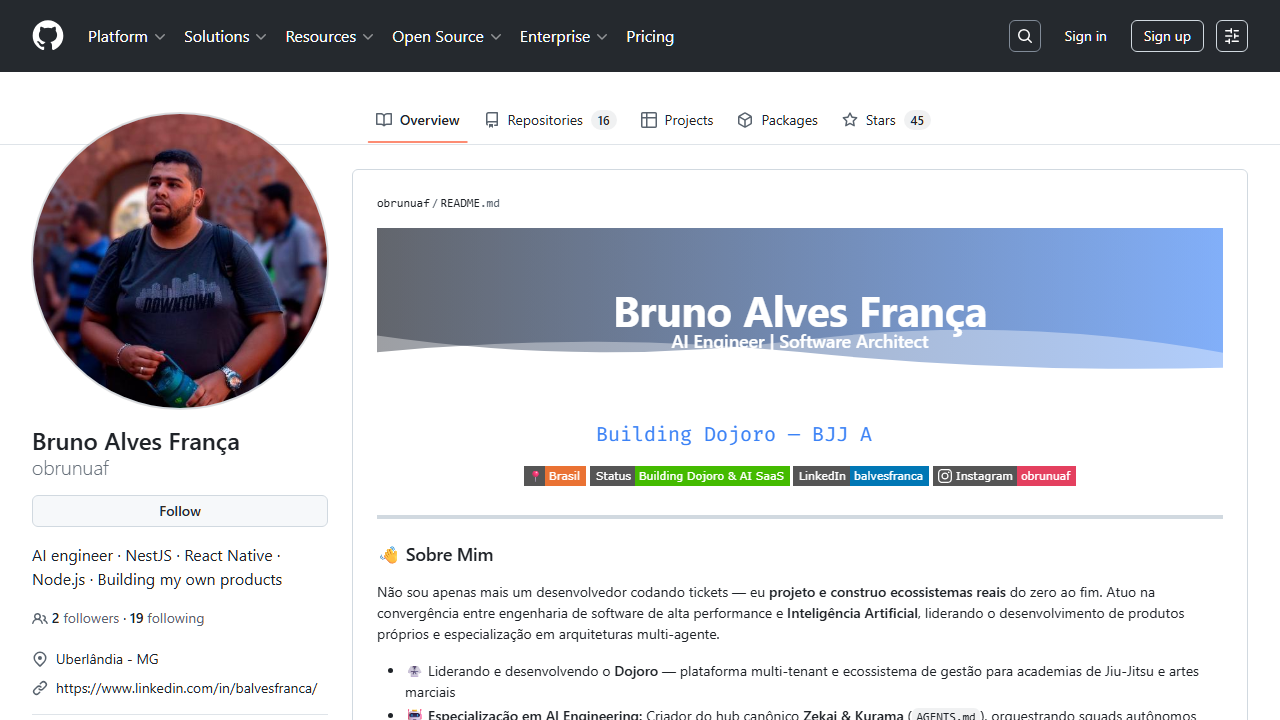
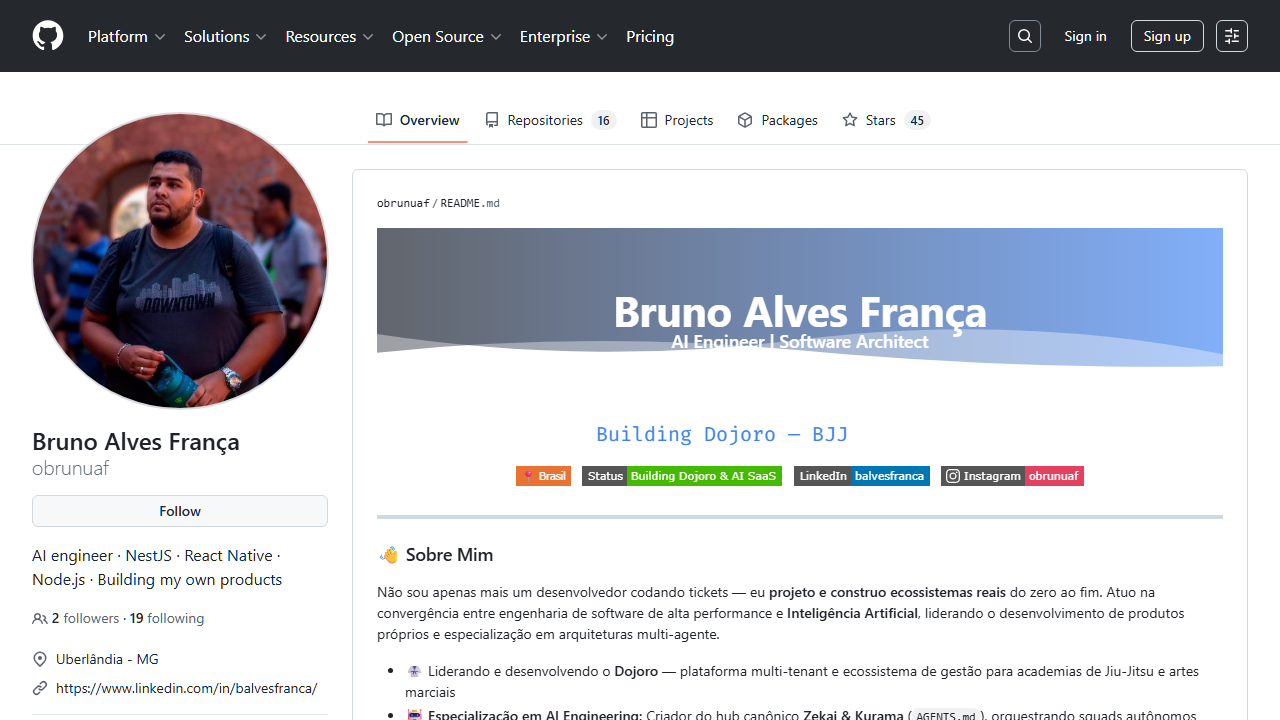
style: aplica estilo for-the-badge em grade horizontal na Tech Stack e Connect (modelo Aryaman)

Changed region(s): [[0.4062, 0.6417, 0.8438, 0.6722], [0.6562, 0.4889, 0.875, 0.5194]]

diff --git a/README.md b/README.md
@@ -4,15 +4,9 @@
 
 <img src="https://readme-typing-svg.demolab.com?font=Fira+Code&size=20&pause=1000&color=3B82F6&center=true&vCenter=true&width=650&lines=Building+Dojoro+%E2%80%94+BJJ+Academy+SaaS;Creator+of+Zekai+%26+Kurama+%E2%80%94+AI+Ecosystem;AI+Engineer+%7C+Multi-Agent+Orchestration;%23BuildInPublic+%E2%80%94+Sharing+Dev+Journey" alt="Typing SVG" />
 
-<p align="center">
-  <img src="https://img.shields.io/badge/📍_Brasil-orange?style=flat-square" alt="Brasil" />
-  &nbsp;
-  <img src="https://img.shields.io/badge/Status-Building_Dojoro_%26_AI_SaaS-brightgreen?style=flat-square" alt="Status" />
-  &nbsp;
-  <a href="https://www.linkedin.com/in/balvesfranca/"><img src="https://img.shields.io/badge/LinkedIn-balvesfranca-0077B5?style=flat-square&logo=linkedin&logoColor=white" alt="LinkedIn" /></a>
-  &nbsp;
-  <a href="https://www.instagram.com/obrunuaf/"><img src="https://img.shields.io/badge/Instagram-obrunuaf-E4405F?style=flat-square&logo=instagram&logoColor=white" alt="Instagram" /></a>
-</p>
+![Brasil](https://img.shields.io/badge/📍-Brasil-orange?style=flat-square)
+![Status](https://img.shields.io/badge/Status-Building_Dojoro_%26_AI_SaaS-brightgreen?style=flat-square)
+![Open to](https://img.shields.io/badge/Open_to-AI_%26_Architecture_Consulting-blue?style=flat-square)
 
 </div>
 
@@ -40,49 +34,27 @@ Não sou apenas mais um desenvolvedor codando tickets — eu **projeto e constru
 - 🎨 Interface web ultra moderna em **Next.js 16** (Tailwind v4) e aplicativo mobile nativo em **React Native / Expo SDK 54**
 - 🛡 Segurança estrita com **PostgreSQL / Supabase** (Argon2id para hashing, RLS nativo e auditoria contínua)
 
-[Ver Organização →](https://github.com/obrunuaf)  |  `NestJS 11` `Next.js 16` `React Native` `Go` `PostgreSQL` `WhatsApp API`
+**[Ver Organização →](https://github.com/obrunuaf)** &nbsp;|&nbsp; `NestJS 11` `Next.js 16` `React Native` `Go` `PostgreSQL` `WhatsApp API`
 
 ---
 
 ### 🛠 Tech Stack
 
-#### 🤖 AI & Agent Engineering
-<p>
-  <img src="https://img.shields.io/badge/Zekai_%2F_Kurama-AGENTS.md_Hub-8b5cf6?style=flat-square" alt="Zekai Kurama" />
-  <img src="https://img.shields.io/badge/Paperclip-Zero--Human_Pipelines-4C1D95?style=flat-square" alt="Paperclip" />
-  <img src="https://img.shields.io/badge/Model_Context_Protocol-MCP-1C3C3C?style=flat-square" alt="MCP" />
-  <img src="https://img.shields.io/badge/OpenAI-412991?style=flat-square&logo=openai&logoColor=white" alt="OpenAI" />
-  <img src="https://img.shields.io/badge/Claude-D97757?style=flat-square&logo=claude&logoColor=white" alt="Claude" />
-  <img src="https://img.shields.io/badge/Ollama-000000?style=flat-square&logo=ollama&logoColor=white" alt="Ollama" />
-</p>
-
-#### ⚙ Backend & Architecture
-<p>
-  <img src="https://img.shields.io/badge/NestJS_11-E0234E?style=flat-square&logo=nestjs&logoColor=white" alt="NestJS" />
-  <img src="https://img.shields.io/badge/Node.js-339933?style=flat-square&logo=nodedotjs&logoColor=white" alt="Node.js" />
-  <img src="https://img.shields.io/badge/Go_%2F_Whatsmeow-00ADD8?style=flat-square&logo=go&logoColor=white" alt="Go" />
-  <img src="https://img.shields.io/badge/PostgreSQL-4169E1?style=flat-square&logo=postgresql&logoColor=white" alt="PostgreSQL" />
-  <img src="https://img.shields.io/badge/Supabase_RLS-3ECF8E?style=flat-square&logo=supabase&logoColor=white" alt="Supabase" />
-  <img src="https://img.shields.io/badge/Argon2id-Security-EA4335?style=flat-square" alt="Argon2id" />
-</p>
-
-#### 📱 Frontend & Mobile
-<p>
-  <img src="https://img.shields.io/badge/Next.js_16-000000?style=flat-square&logo=nextdotjs&logoColor=white" alt="Next.js" />
-  <img src="https://img.shields.io/badge/React_Native-20232A?style=flat-square&logo=react&logoColor=61DAFB" alt="React Native" />
-  <img src="https://img.shields.io/badge/Expo_SDK_54-000020?style=flat-square&logo=expo&logoColor=white" alt="Expo" />
-  <img src="https://img.shields.io/badge/Tailwind_v4-38B2AC?style=flat-square&logo=tailwind-css&logoColor=white" alt="Tailwind CSS" />
-  <img src="https://img.shields.io/badge/TypeScript-007ACC?style=flat-square&logo=typescript&logoColor=white" alt="TypeScript" />
-</p>
-
-#### 📦 DevOps & Tooling
-<p>
-  <img src="https://img.shields.io/badge/Docker-2496ED?style=flat-square&logo=docker&logoColor=white" alt="Docker" />
-  <img src="https://img.shields.io/badge/Git-F05032?style=flat-square&logo=git&logoColor=white" alt="Git" />
-  <img src="https://img.shields.io/badge/GitHub_Actions-2088FF?style=flat-square&logo=github-actions&logoColor=white" alt="GitHub Actions" />
-  <img src="https://img.shields.io/badge/Playwright-2EAD33?style=flat-square" alt="Playwright" />
-  <img src="https://img.shields.io/badge/Linux_%2F_Bash-FCC624?style=flat-square&logo=linux&logoColor=black" alt="Linux" />
-</p>
+![Next.js](https://img.shields.io/badge/-Next.js_16-000000?style=for-the-badge&logo=next.js&logoColor=white)
+![React Native](https://img.shields.io/badge/-React_Native-20232A?style=for-the-badge&logo=react&logoColor=61DAFB)
+![Expo](https://img.shields.io/badge/-Expo_SDK_54-000020?style=for-the-badge&logo=expo&logoColor=white)
+![NestJS](https://img.shields.io/badge/-NestJS_11-E0234E?style=for-the-badge&logo=nestjs&logoColor=white)
+![Node.js](https://img.shields.io/badge/-Node.js-339933?style=for-the-badge&logo=node.js&logoColor=white)
+![Go](https://img.shields.io/badge/-Go_%2F_Whatsmeow-00ADD8?style=for-the-badge&logo=go&logoColor=white)
+![PostgreSQL](https://img.shields.io/badge/-PostgreSQL-4169E1?style=for-the-badge&logo=postgresql&logoColor=white)
+![Supabase](https://img.shields.io/badge/-Supabase_RLS-3ECF8E?style=for-the-badge&logo=supabase&logoColor=white)
+![TypeScript](https://img.shields.io/badge/-TypeScript-3178C6?style=for-the-badge&logo=typescript&logoColor=white)
+![Tailwind CSS](https://img.shields.io/badge/-Tailwind_v4-38B2AC?style=for-the-badge&logo=tailwindcss&logoColor=white)
+![Docker](https://img.shields.io/badge/-Docker-2496ED?style=for-the-badge&logo=docker&logoColor=white)
+![Git](https://img.shields.io/badge/-Git-F05032?style=for-the-badge&logo=git&logoColor=white)
+![GitHub Actions](https://img.shields.io/badge/-GitHub_Actions-2088FF?style=for-the-badge&logo=githubactions&logoColor=white)
+![Playwright](https://img.shields.io/badge/-Playwright-2EAD33?style=for-the-badge&logo=playwright&logoColor=white)
+![Linux](https://img.shields.io/badge/-Linux_%2F_Bash-FCC624?style=for-the-badge&logo=linux&logoColor=black)
 
 ---
 
@@ -90,16 +62,12 @@ Não sou apenas mais um desenvolvedor codando tickets — eu **projeto e constru
 
 <div align="center">
 
-<img width="95%" src="https://github-profile-summary-cards.vercel.app/api/cards/profile-details?username=obrunuaf&theme=tokyonight" alt="Profile summary" />
+<img height="165" src="https://github-readme-stats.vercel.app/api?username=obrunuaf&show_icons=true&theme=tokyonight&hide_border=true&count_private=true"/>
+<img height="165" src="https://github-readme-stats.vercel.app/api/top-langs/?username=obrunuaf&layout=compact&theme=tokyonight&hide_border=true"/>
 
-<br/><br/>
+<img src="https://github-readme-streak-stats.herokuapp.com/?user=obrunuaf&theme=tokyonight&hide_border=true" alt="streak stats"/>
 
-<img height="170" src="https://github-profile-summary-cards.vercel.app/api/cards/repos-per-language?username=obrunuaf&theme=tokyonight" alt="Repos per language" />
-<img height="170" src="https://github-profile-summary-cards.vercel.app/api/cards/most-commit-language?username=obrunuaf&theme=tokyonight" alt="Most committed language" />
-
-<br/><br/>
-
-<img width="95%" src="https://github-readme-activity-graph.vercel.app/graph?username=obrunuaf&theme=tokyo-night&hide_border=true&area=true" alt="Contribution activity graph" />
+<img src="https://github-readme-activity-graph.vercel.app/graph?username=obrunuaf&theme=tokyo-night&hide_border=true" width="100%"/>
 
 <br/><br/>
 
@@ -118,14 +86,11 @@ Não sou apenas mais um desenvolvedor codando tickets — eu **projeto e constru
 
 <div align="center">
 
-<p>Aberto para colaborar em <b>Ecossistemas de IA, Orquestração Multi-Agente & SaaS Multi-Tenant (Dojoro)</b> —<br/>ou apenas para trocar ideias sobre como escalar arquiteturas na produção.</p>
-
-<p align="center">
-  <a href="https://www.linkedin.com/in/balvesfranca/"><img src="https://img.shields.io/badge/LinkedIn-balvesfranca-0077B5?style=flat-square&logo=linkedin&logoColor=white" alt="LinkedIn" /></a>
-  &nbsp;
-  <a href="https://www.instagram.com/obrunuaf/"><img src="https://img.shields.io/badge/Instagram-obrunuaf-E4405F?style=flat-square&logo=instagram&logoColor=white" alt="Instagram" /></a>
-  &nbsp;
-  <a href="mailto:contato@dojoro.com"><img src="https://img.shields.io/badge/Email-Say%20Hello-EA4335?style=flat-square&logo=gmail&logoColor=white" alt="Email" /></a>
-</p>
+[![LinkedIn](https://img.shields.io/badge/-LinkedIn-0077B5?style=for-the-badge&logo=linkedin&logoColor=white)](https://linkedin.com/in/balvesfranca)
+[![Instagram](https://img.shields.io/badge/-Instagram-E4405F?style=for-the-badge&logo=instagram&logoColor=white)](https://instagram.com/obrunuaf)
+[![Email](https://img.shields.io/badge/-Email-EA4335?style=for-the-badge&logo=gmail&logoColor=white)](mailto:contato@dojoro.com)
+[![GitHub](https://img.shields.io/badge/-GitHub-181717?style=for-the-badge&logo=github&logoColor=white)](https://github.com/obrunuaf)
 
 </div>
+
+<img src="https://capsule-render.vercel.app/api?type=waving&color=0:3B82F6,100:0A0F1A&height=100&section=footer"/>
